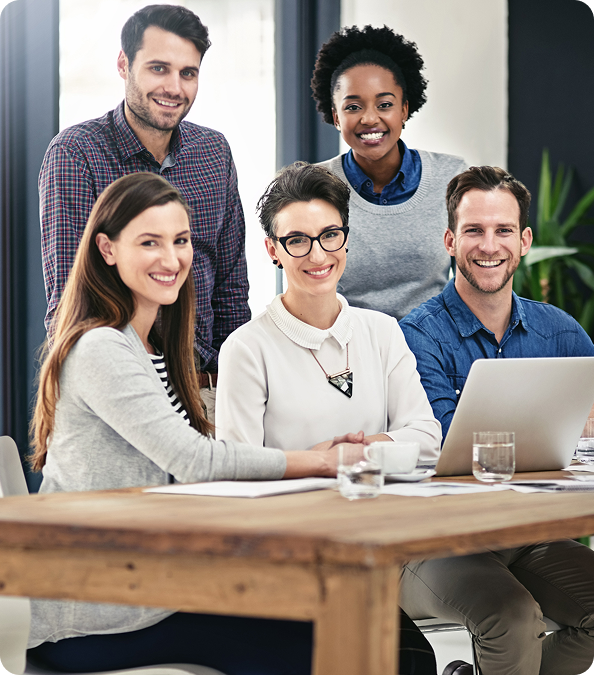
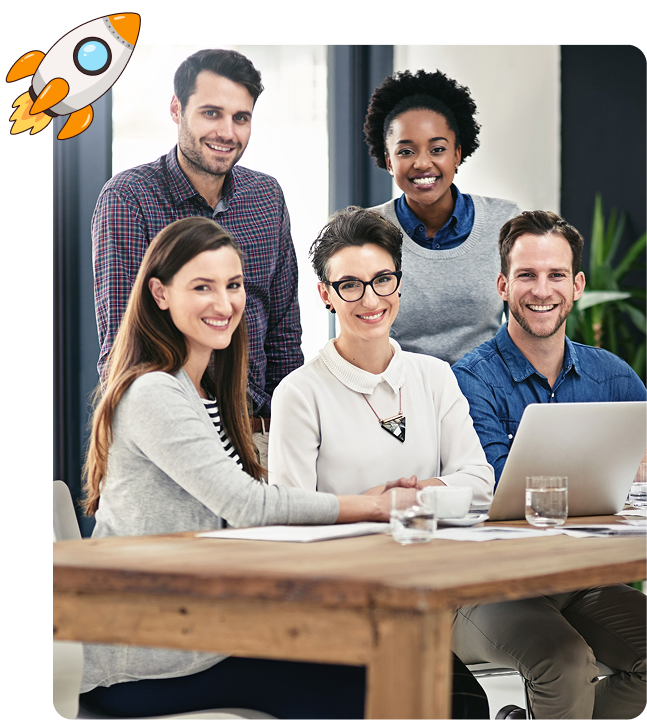
keystats fixes

diff --git a/src/app/(website)/(mainWebsite)/services/[slug]/KeyStats.tsx b/src/app/(website)/(mainWebsite)/services/[slug]/KeyStats.tsx
@@ -173,7 +173,7 @@ const KeyStats = ({ keyStats }: any) => {
             )}
           </div>
         )}
-        {keyStats?.code === '02' && (
+        {/* {keyStats?.code === '02' && (
           <div
             className={`transition-all duration-1000 ${isVisible ? 'translate-y-0 opacity-100' : 'translate-y-12 opacity-0'} `}
           >
@@ -191,13 +191,6 @@ const KeyStats = ({ keyStats }: any) => {
                   fill
                   className="object-fill"
                 />
-                {/* <Image
-                  src={keyStats?.rocketImg ? keyStats.rocketImg : undefined}
-                  width={115}
-                  height={123}
-                  alt="rocket"
-                  className="left-[0.5 rem] absolute top-[-1rem]"
-                /> */}
 
                 {keyStats?.rocketImg && (
                   <Image
@@ -210,6 +203,66 @@ const KeyStats = ({ keyStats }: any) => {
                 )}
               </div>
               <div className="mt-7 space-y-4">
+                {keyStats?.list?.map((item: any, index: any) => (
+                  <div key={index} className="flex flex-col">
+                    {index !== 0 && (
+                      <Image
+                        src={DottedLine}
+                        width={891}
+                        height={0}
+                        alt="dotted-line"
+                      />
+                    )}
+
+                    <div className="flex flex-col items-center gap-8 py-4 md:flex-row lg:flex-row lg:gap-16">
+                      <div className="mx-2.5 flex w-[50px] justify-center">
+                        <span className="text-4xl font-normal text-[#FB9100] md:text-4xl">
+                          {String(index + 1).padStart(2, '0')}
+                        </span>
+                      </div>
+
+                      <p className="text-sm md:text-base">
+                        {item.desctioption}
+                      </p>
+                    </div>
+                  </div>
+                ))}
+              </div>
+            </div>
+          </div>
+        )} */}
+        {keyStats?.code === '02' && (
+          <div
+            className={`transition-all duration-1000 ${isVisible ? 'translate-y-0 opacity-100' : 'translate-y-12 opacity-0'} `}
+          >
+            <Heading
+              breakIndex={keyStats?.breakIndex}
+              isInCenter={true}
+              subTitle={''}
+              headingParts={keyStats?.headingParts}
+            />
+            <div className="flex items-center gap-5 pt-[2rem] lg:gap-[6rem]">
+              <div className={`w-[100%] lg:w-[${`${keyStats.width}%`}]`}>
+                <Image
+                  src={keyStats?.img}
+                  alt="img"
+                  width={keyStats?.imgWidth}
+                  height={keyStats?.imgHeight}
+                  className="object-contain"
+                />
+
+                {/* {keyStats?.rocketImg && (
+                  <Image
+                    src={keyStats.rocketImg}
+                    width={148}
+                    height={152}
+                    alt="rocket"
+                    className="left-[0.5rem] absolute top-[-1rem]"
+                  />
+                )} */}
+              </div>
+
+              <div className={`mt-7 space-y-4 w-[100%] lg:w-[${`${100 - keyStats.width}%`}]`}>
                 {keyStats?.list?.map((item: any, index: any) => (
                   <div key={index} className="flex flex-col">
                     {index !== 0 && (

diff --git a/src/app/(website)/(mainWebsite)/services/[slug]/data.ts b/src/app/(website)/(mainWebsite)/services/[slug]/data.ts
@@ -793,8 +793,10 @@ export const SERVICES_DATA = {
         },
       ],
       isCard: true,
+      imgWidth: '594',
+      imgHeight: '675',
+      width: 40,
       img: keyStatsImg2,
-      rocketImg: rocket,
       list: [
         {
           icon: '',
@@ -14739,6 +14741,9 @@ export const SERVICES_DATA = {
         },
       ],
       isCard: true,
+      width: 40,
+      imgWidth: '619',
+      imgHeight: '693',
       img: 'https://res.cloudinary.com/dsksxpsdh/image/upload/v1773297271/adaired/services/llm_service/KeyStats_flxjoi.png',
       list: [
         {
@@ -15988,6 +15993,9 @@ export const SERVICES_DATA = {
           weight: '700',
         },
       ],
+      width: 40,
+      imgWidth: '620',
+      imgHeight: '725',
       bgColor: '#FB9100',
       isImgBg: true,
       isCard: false,
@@ -19835,7 +19843,7 @@ export const SERVICES_DATA = {
       isVisible: true,
       code: '02',
       breakIndex: 0,
-      img: 'https://res.cloudinary.com/dsksxpsdh/image/upload/v1773821670/adaired/services/social_media_management/socialMediaMgtKeyStatsImg_tcfqxu.png',
+      img: 'https://res.cloudinary.com/dsksxpsdh/image/upload/v1773836300/adaired/services/social_media_management/socialMediaMgtKeyStatsImg_zywqa6.png',
       headingParts: [
         {
           text: 'Why Do You Need a Custom Social Media Plan?',
@@ -19846,6 +19854,9 @@ export const SERVICES_DATA = {
       bgColor: '#FB9100',
       isImgBg: true,
       isCard: false,
+      imgWidth: '620',
+      imgHeight: '725',
+      width: 40,
       rocketImg: rocket,
       list: [
         {
